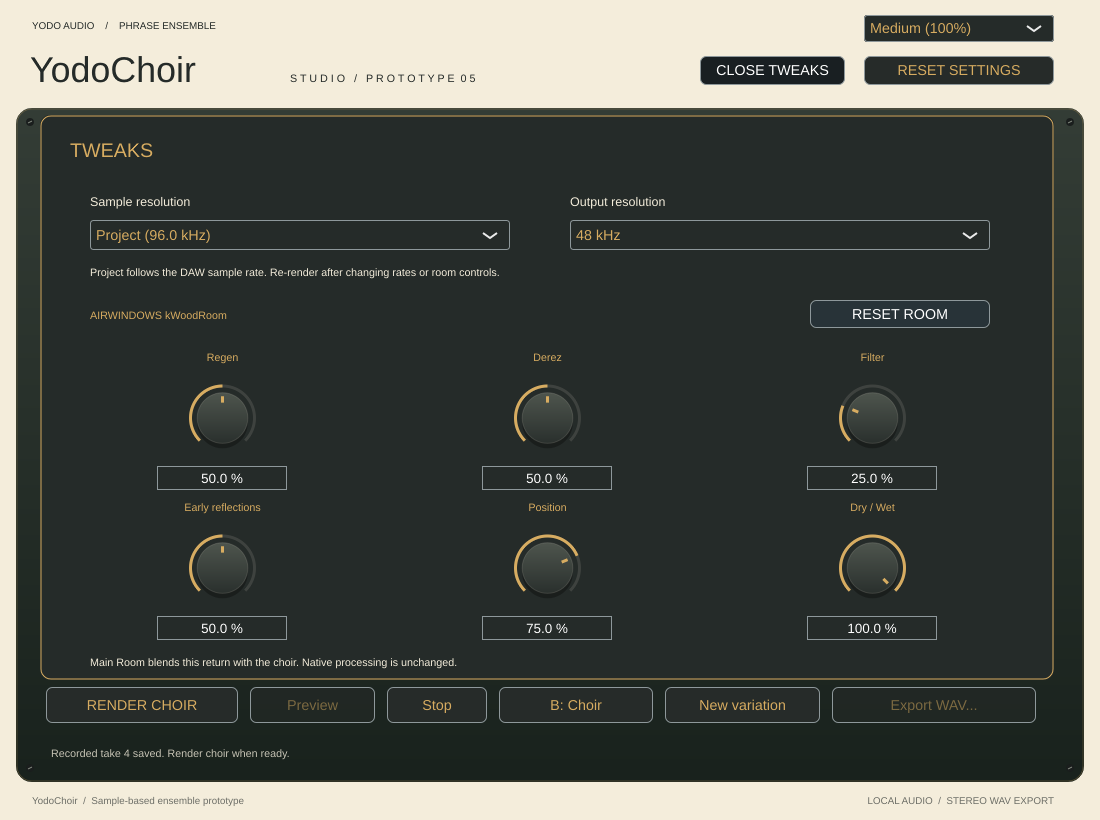
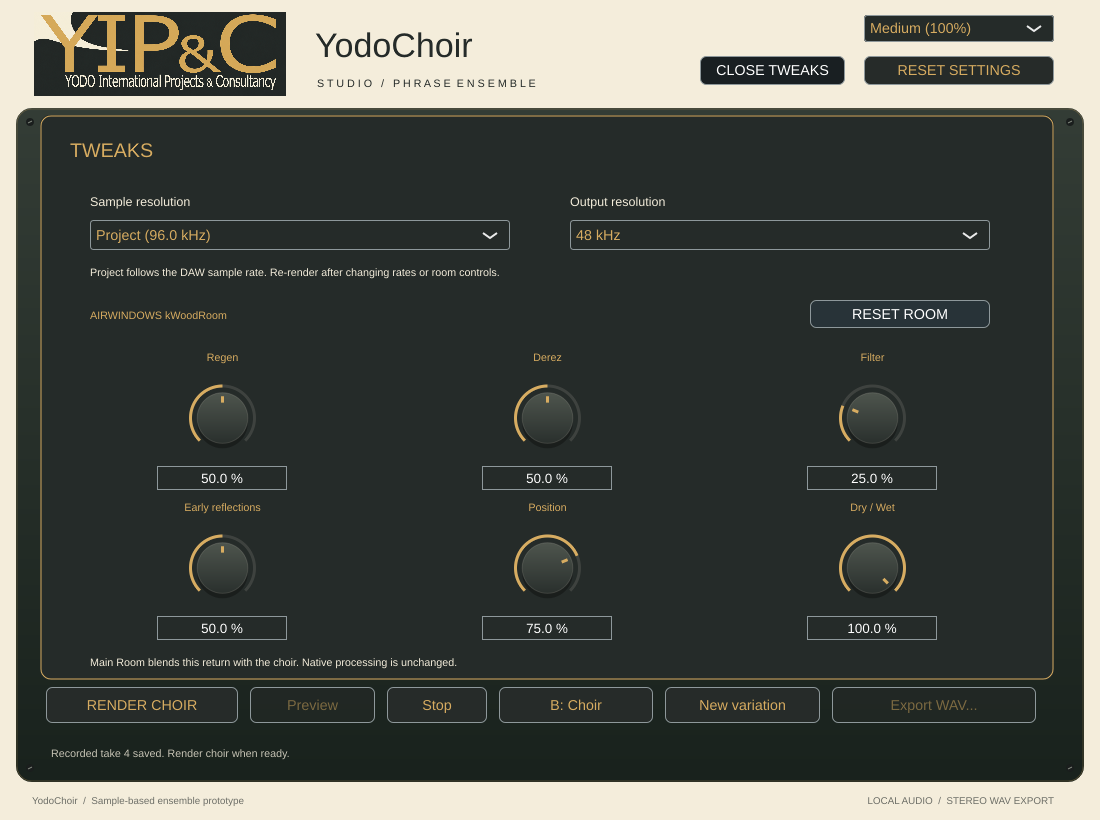
Add palette-matched YIP&C branding to plugin header

Changed region(s): [[0.0309, 0.0, 0.4945, 0.122]]

diff --git a/Source/Plugin.cpp b/Source/Plugin.cpp
@@ -1,5 +1,6 @@
 #include "PluginProcessor.h"
 #include "Look.h"
+#include "YodoChoirAssets.h"
 #include "OutputMeter.h"
 #include <cmath>
 #include <cstring>
@@ -522,6 +523,9 @@ private:
 class ChoirPanel final : public juce::Component,public juce::FileDragAndDropTarget,private juce::Timer {
 public:
     explicit ChoirPanel(ChoirProcessor& p):processor(p),tweaks(p) {
+        brandLogo.setImage(juce::ImageCache::getFromMemory(YodoChoirAssets::yipc_logo_png,YodoChoirAssets::yipc_logo_pngSize));
+        brandLogo.setComponentID("brandLogo");brandLogo.setInterceptsMouseClicks(false,false);
+        brandLogo.setTitle("YIP&C — YODO International Projects & Consultancy");addAndMakeVisible(brandLogo);
         setLookAndFeel(&look);
         for(size_t i=0;i<4;++i) {
             addAndMakeVisible(load[i]); addAndMakeVisible(clear[i]); addAndMakeVisible(recordButtons[i]);
@@ -605,6 +609,7 @@ public:
         refresh();
     }
     void resized() override {
+        brandLogo.setBounds(30,12,260,84);
         tweakButton.setBounds(700,56,145,29);tweaks.setBounds(40,115,1014,565);
         sizeChoice.setBounds(864,15,190,27); reset.setBounds(864,56,190,29);
         demoButton.setBounds(446,128,119,26); cancelCaptureButton.setBounds(323,128,115,26); recordAllButton.setBounds(205,128,110,26); monitorButton.setBounds(602,320,190,26);
@@ -619,9 +624,8 @@ public:
     void paint(juce::Graphics& g) override {
         using namespace style;
         g.fillAll(cream); g.setColour(ink); g.setFont(juce::FontOptions(11.f));
-        g.drawText("YODO AUDIO    /    PHRASE ENSEMBLE",32,15,650,22,juce::Justification::left);
-        g.setFont(juce::FontOptions(40.f)); g.drawText("YodoChoir",30,42,300,55,juce::Justification::left);
-        g.setFont(juce::FontOptions(12.f)); g.drawText("S T U D I O   /   P R O T O T Y P E  0 5",290,68,500,20,juce::Justification::left);
+        g.setFont(juce::FontOptions(38.f));g.drawText("YodoChoir",315,20,330,50,juce::Justification::left);
+        g.setFont(juce::FontOptions(12.f));g.drawText("S T U D I O   /   P H R A S E  E N S E M B L E",317,73,365,20,juce::Justification::left);
         g.setGradientFill(juce::ColourGradient(juce::Colour(0xff343d36),0,108,juce::Colour(0xff19221d),0,780,false));
         g.fillRoundedRectangle(16,108,1068,674,16); g.setColour(gold.withAlpha(.25f)); g.drawRoundedRectangle({17.f,109.f,1066.f,672.f},15,1);
         for(float x:{30.f,1070.f}) for(float y:{122.f,768.f}) {g.setColour(ink.darker());g.fillEllipse(x-4,y-4,8,8);g.setColour(muted);g.drawLine(x-2,y+1,x+2,y-1,1);}
@@ -716,6 +720,7 @@ private:
     }
     ChoirProcessor& processor;
     style::Look look;
+    juce::ImageComponent brandLogo;
     TweakPanel tweaks;
     juce::TextButton tweakButton{"TWEAKS"};
     std::array<juce::TextButton,4> load,clear,recordButtons;

diff --git a/README.md b/README.md
@@ -4,6 +4,8 @@ Turn a few vocal takes into a stereo ensemble, entirely on your computer.
 Import or record up to four takes of the **same phrase**, render 4–32 virtual singers,
 audition the result, export a WAV, or write an aligned item directly to its Reaper track. The interface and Apple Silicon
 install workflow follow [ToTape Studio](https://github.com/johandoornenbal/tape).
+The header features the supplied YIP&C branding adapted to the same brass, cream
+and charcoal palette.
 
 ![YodoChoir native editor](docs/ui-preview.png)
 

diff --git a/resources/README.md b/resources/README.md
@@ -1,0 +1,6 @@
+# Branding
+
+`yipc_logo.png` is a color adaptation of the YIP&C logo supplied by the project
+owner, using brass gold, warm cream and charcoal to match the plugin interface.
+It is embedded in the plugin through JUCE BinaryData; no external image file is
+required after installation.
